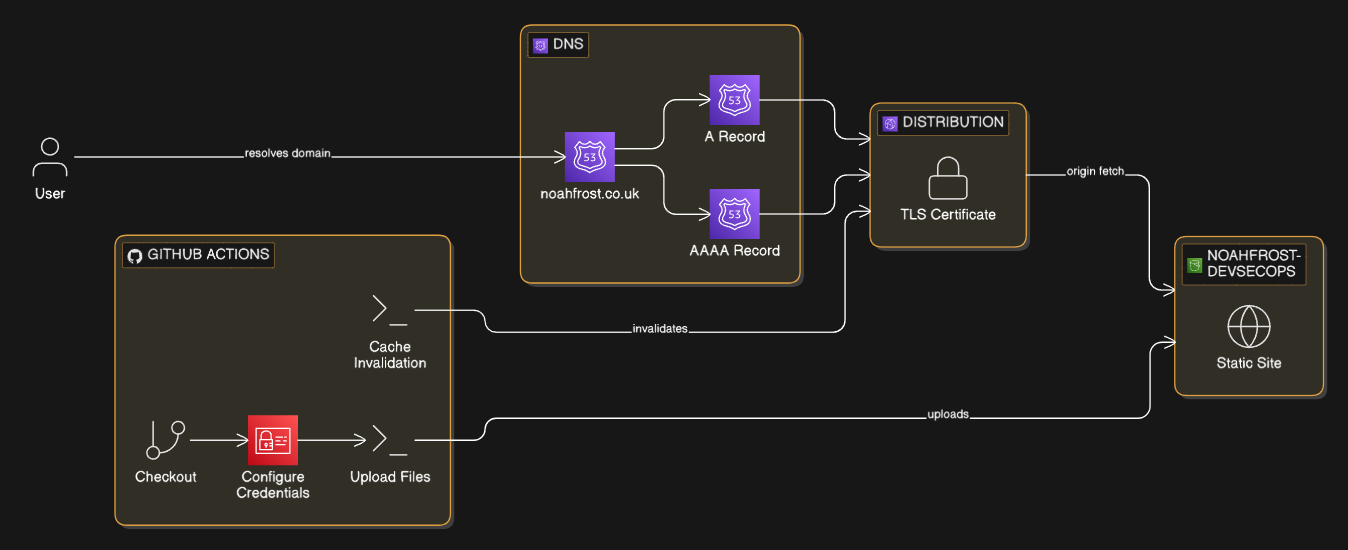
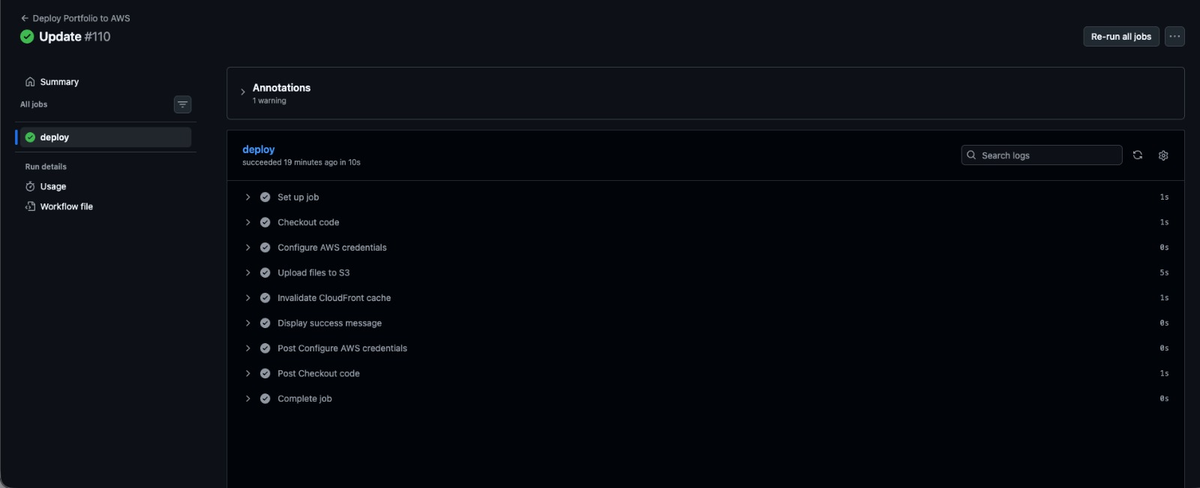
Update

diff --git a/index.html b/index.html
@@ -623,7 +623,7 @@
         .project-card__image img {
             width: 100%;
             height: 100%;
-            object-fit: contain;
+            object-fit: cover;
             transition: transform var(--transition-slow);
         }
 

diff --git a/README.md b/README.md
@@ -12,8 +12,6 @@ This is a deliberately simple project, but it reflects how production static sit
 
 ## Architecture
 
-![](screenshots/cloud-architecture.png)
-
 The request flow runs left to right: DNS resolution through Route53 directs traffic to a CloudFront distribution, which serves cached content from an S3 origin bucket. CloudFront handles TLS termination using an ACM certificate and enforces HTTPS by redirecting all HTTP requests.
 
 The deployment flow runs separately: GitHub Actions checks out the repository, authenticates to AWS, syncs files to S3 (excluding infrastructure and CI/CD config), then invalidates the CloudFront cache so changes propagate globally.
@@ -41,6 +39,26 @@ The deployment flow runs separately: GitHub Actions checks out the repository, a
 **Portfolio Homepage** — The live deployed website showcasing Noah Frost's professional profile, including a featured headshot, navigation menu, professional summary, and prominent call-to-action buttons. This is the static site served globally via CloudFront and S3, demonstrating the successful delivery of the CI/CD pipeline.
 
 ![](screenshots/portfolio-homepage.png)
+
+**GitHub Actions Deployment Run** — A successful run of the Deploy Portfolio to AWS workflow, showing every step of the deploy job completing in ten seconds: checkout, AWS credential configuration, the S3 sync, and the CloudFront cache invalidation. This is the pipeline that turns a push to `main` into a live site.
+
+![](screenshots/github-actions-deploy-run.png)
+
+**S3 Origin Bucket** — The noahfrost-devsecops bucket holding the deployed site: `index.html`, the resume PDF, and the images and videos directories. The workflow syncs these objects with `--delete`, so the bucket always mirrors the repository rather than accumulating stale files.
+
+![](screenshots/s3-bucket-objects.png)
+
+**CloudFront Distribution** — The distribution serving the site, with noahfrost.co.uk configured as an alternate domain name and a custom ACM certificate attached for TLS. Traffic is compressed, cached at edge locations, and HTTP requests are redirected to HTTPS.
+
+![](screenshots/cloudfront-distribution.png)
+
+**CloudFront Invalidations** — Completed invalidation records created by the deploy workflow. Because CloudFront caches aggressively at the edge, a deployment that only syncs S3 would serve stale content until the TTL expired; invalidating `/*` forces the CDN to re-fetch from the origin so changes appear immediately.
+
+![](screenshots/cloudfront-invalidations.png)
+
+**Route 53 Hosted Zone** — DNS records for noahfrost.co.uk, with A and AAAA alias records pointing at the CloudFront distribution so the domain resolves over both IPv4 and IPv6. The CNAME record is the ACM validation record proving domain ownership for the TLS certificate.
+
+![](screenshots/route53-records.png)
 
 ## Author
 
